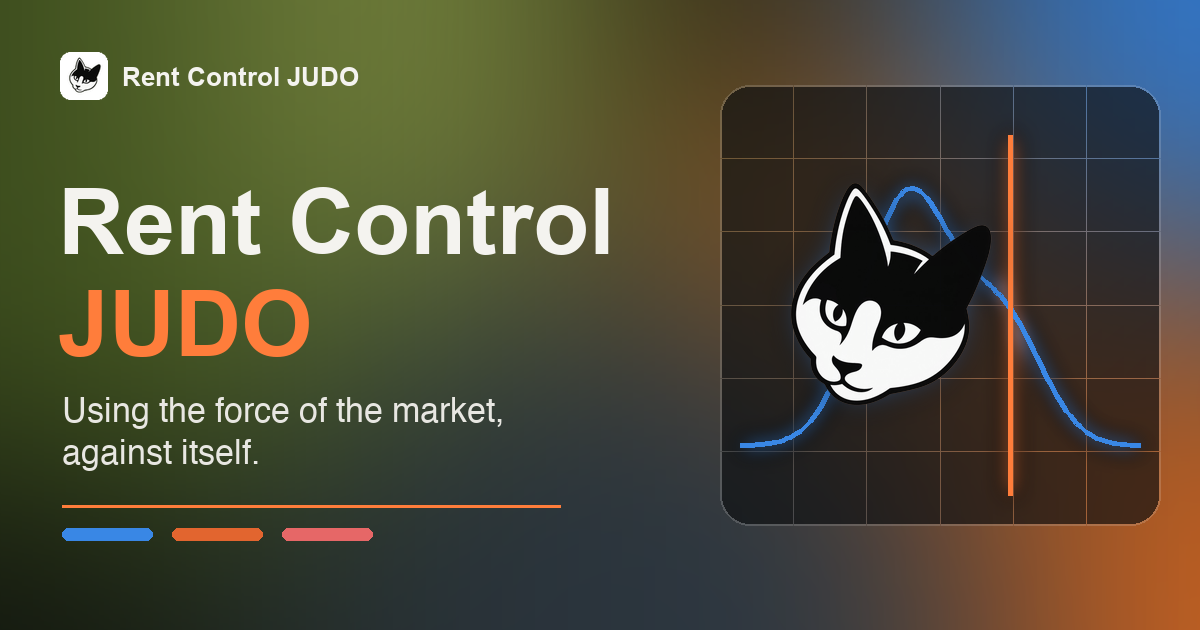
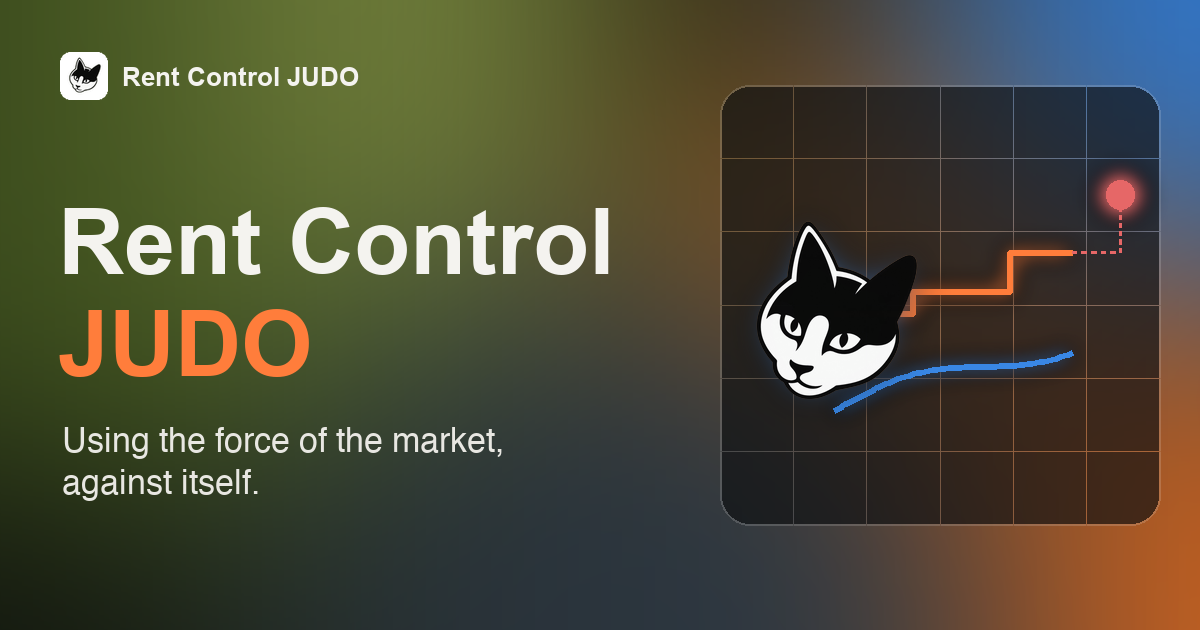
Hero: strip to one button; chart over time with the proposal as a red dot
- Hero keeps only the brand, title, tagline, one 'See the evidence' button
  and the chart (no nav links, repeated buttons, legend, stats or scroll cue)
- Hero chart now runs over time: market (smoothed), this rent above it, and a
  red dashed step up to the proposal dot at the top right
- Trend chart: proposal as a red dot; ONS label names its latest month
- Share card and README screenshots redrawn to match

diff --git a/public_page.py b/public_page.py
@@ -253,37 +253,24 @@ html{scroll-behavior:smooth}
 .jd-nav{display:flex;align-items:center;justify-content:space-between;gap:16px;padding:22px clamp(16px,3vw,40px)}
 .jd-brand{display:flex;align-items:center;gap:12px;font-weight:700;font-size:17px;letter-spacing:-.01em;color:#fff;text-decoration:none;white-space:nowrap}
 .jd-brand img{width:36px;height:36px;border-radius:10px;display:block}
-.jd-links{display:flex;gap:clamp(16px,2.6vw,40px);font-size:15px}
-.jd-links a{color:rgba(244,243,239,.82);text-decoration:none;font-weight:500}
-.jd-links a:hover{color:#fff}
 .jd-pill{display:inline-flex;align-items:center;gap:8px;background:#fff;color:#0b0b0b;text-decoration:none;font-weight:600;font-size:15px;padding:12px 22px;border-radius:999px;white-space:nowrap}
-.jd-pill:focus-visible,.jd-ghost:focus-visible,.jd-links a:focus-visible{outline:2px solid #fff;outline-offset:3px}
+.jd-pill:focus-visible,.jd-brand:focus-visible{outline:2px solid #fff;outline-offset:3px}
 .jd-body{flex:1;display:grid;grid-template-columns:minmax(0,1.15fr) minmax(0,.85fr);align-items:center;gap:clamp(24px,4vw,64px);
   padding:clamp(24px,6vh,72px) clamp(16px,3vw,40px) clamp(56px,10vh,110px);max-width:1360px;width:100%;margin:0 auto;box-sizing:border-box}
 .jd-title{font-weight:800;font-size:clamp(52px,8.4vw,128px);line-height:.92;letter-spacing:-.045em;margin:0;text-wrap:balance}
 .jd-title .o{color:#ff7d3b;display:block}
 .jd-tag{font-size:clamp(20px,2.2vw,30px);line-height:1.25;letter-spacing:-.02em;font-weight:500;color:rgba(244,243,239,.9);margin:22px 0 0;max-width:22ch}
-.jd-rule{height:2px;max-width:520px;margin:30px 0 14px;background:linear-gradient(90deg,#ff7d3b,rgba(255,125,59,.15))}
-.jd-keys{display:flex;flex-wrap:wrap;gap:10px 18px;font-size:13.5px;color:rgba(244,243,239,.78)}
-.jd-keys span{display:inline-flex;align-items:center;gap:8px}
-.jd-keys i{display:inline-block;width:34px;height:8px;border-radius:999px}
-.jd-ctas{display:flex;flex-wrap:wrap;gap:12px;margin-top:30px}
-.jd-ghost{display:inline-flex;align-items:center;gap:8px;color:#fff;text-decoration:none;font-weight:600;font-size:15px;padding:11px 20px;border-radius:999px;border:1px solid rgba(255,255,255,.4);background:rgba(255,255,255,.06);backdrop-filter:blur(6px)}
+.jd-ctas{display:flex;margin-top:40px}
 .jd-card{position:relative;aspect-ratio:1/1;width:100%;max-width:520px;justify-self:end;border-radius:28px;
   background:rgba(12,14,16,.58);border:1px solid rgba(255,255,255,.12);backdrop-filter:blur(14px);
   box-shadow:0 30px 80px rgba(0,0,0,.45);overflow:hidden}
 .jd-card svg{position:absolute;inset:0;width:100%;height:100%}
-.jd-cat{position:absolute;left:42%;top:48%;width:56%;transform:translate(-50%,-50%);filter:drop-shadow(0 0 28px rgba(57,135,229,.45)) drop-shadow(0 12px 30px rgba(0,0,0,.5));
+.jd-cat{position:absolute;left:25%;top:52%;width:44%;transform:translate(-50%,-50%);filter:drop-shadow(0 0 28px rgba(57,135,229,.45)) drop-shadow(0 12px 30px rgba(0,0,0,.5));
   animation:jdFloat 7s ease-in-out infinite}
 @keyframes jdFloat{0%,100%{transform:translate(-50%,-50%)}50%{transform:translate(-50%,-53%)}}
-.jd-stat{position:absolute;left:18px;bottom:16px;right:18px;display:flex;justify-content:space-between;align-items:flex-end;gap:10px;font-size:12.5px;color:rgba(244,243,239,.75)}
-.jd-stat b{display:block;font-size:26px;letter-spacing:-.03em;color:#fff;line-height:1}
-.jd-down{position:absolute;left:50%;bottom:22px;transform:translateX(-50%);display:flex;flex-direction:column;align-items:center;gap:6px;color:rgba(244,243,239,.75);text-decoration:none;font-size:12px;letter-spacing:.12em;text-transform:uppercase}
-.jd-down svg{width:22px;height:22px;animation:jdBob 2.2s ease-in-out infinite}
-@keyframes jdBob{0%,100%{transform:translateY(0)}50%{transform:translateY(5px)}}
-@media (max-width:900px){.jd-body{grid-template-columns:1fr}.jd-card{justify-self:start;max-width:420px}.jd-links{display:none}}
-@media (max-width:520px){.jd-pill{padding:10px 16px;font-size:14px}.jd-nav > .jd-pill{display:none}.jd-card{max-width:none}.jd-down{display:none}}
-@media (prefers-reduced-motion: reduce){.jd-bg,.jd-cat,.jd-down svg{animation:none}}
+@media (max-width:900px){.jd-body{grid-template-columns:1fr}.jd-card{justify-self:start;max-width:420px}}
+@media (max-width:520px){.jd-card{max-width:none}}
+@media (prefers-reduced-motion: reduce){.jd-bg,.jd-cat{animation:none}}
 .dash-head{display:flex;align-items:center;justify-content:space-between;gap:12px;margin:8px 0 18px;scroll-margin-top:16px}
 .dash-head h2{font-size:clamp(22px,2.6vw,30px);letter-spacing:-.035em}
 .reveal{opacity:0;transform:translateY(18px);transition:opacity .7s ease,transform .7s cubic-bezier(.2,.7,.2,1)}
@@ -297,25 +284,18 @@ html{scroll-behavior:smooth}
   <div class="jd-bg" aria-hidden="true"></div><div class="jd-mesh" aria-hidden="true"></div><div class="jd-shade" aria-hidden="true"></div>
   <nav class="jd-nav">
     <a class="jd-brand" href="#top" id="top"><img src="logo-64.png" width="36" height="36" alt="">Rent Control JUDO</a>
-    <div class="jd-links"><a href="#evidence">The evidence</a><a href="#h-trend">Trend</a><a href="#h-how">How it works</a><a id="jd-code" href="#">Code</a></div>
-    <a class="jd-pill" href="#evidence">See the evidence</a>
   </nav>
   <div class="jd-body">
     <div>
       <h1 class="jd-title">Rent Control <span class="o">JUDO</span></h1>
       <p class="jd-tag">Using the force of the market, against itself.</p>
-      <div class="jd-rule" aria-hidden="true"></div>
-      <div class="jd-keys"><span><i style="background:#3987e5"></i>Market</span><span><i style="background:#e2652f"></i>This rent</span><span><i style="background:#e66767"></i>Proposal</span></div>
-      <div class="jd-ctas"><a class="jd-pill" href="#evidence">See the evidence ↓</a><a class="jd-ghost" id="jd-code2" href="#">View the code</a></div>
+      <div class="jd-ctas"><a class="jd-pill" href="#evidence">See the evidence ↓</a></div>
     </div>
     <div class="jd-card" aria-hidden="true">
-      <svg id="jd-chart" viewBox="0 0 400 400" preserveAspectRatio="none"></svg>
+      <svg id="jd-chart" viewBox="0 0 400 400"></svg>
       <img class="jd-cat" src="logo-512.png" alt="">
-      <div class="jd-stat"><div><b id="jd-gap"></b>a month above the local median</div><div style="text-align:right"><b id="jd-n"></b>agreed lets compared</div></div>
     </div>
   </div>
-  <a class="jd-down" href="#evidence" aria-label="Scroll to the evidence"><span>Scroll</span>
-    <svg viewBox="0 0 24 24" fill="none" stroke="currentColor" stroke-width="2" stroke-linecap="round" stroke-linejoin="round"><path d="M6 9l6 6 6-6"/></svg></a>
 </header>
 <main>
   <div class="dash-head" id="evidence">
@@ -550,7 +530,7 @@ function trend() {
   const box = $("#c-trend"); box.innerHTML = "";
   legend("#lg-trend", [["Agreed rents: median", css("--mkt")], ["middle half", css("--mkt-wash"), "b"], ["Borough average (ONS)", css("--ok")], ["This tenancy", css("--you")]]);
   const T = D.trend; if (!T.length) return; const O = D.ons.filter(o => o.m >= T[0].m);
-  const W = Math.max(300, box.clientWidth), H = 300, m = {l: 52, r: W < 520 ? 12 : 96, t: 14, b: 28};
+  const W = Math.max(300, box.clientWidth), H = 300, m = {l: 52, r: W < 520 ? 12 : 112, t: 14, b: 28};
   const t0 = new Date(T[0].m + "-01"), t1 = new Date();
   const vals = T.flatMap(t => [t.q1, t.q3]).concat(O.map(o => o.v), D.history.map(h => h.rent), D.proposed || []);
   const lo = Math.floor((Math.min(...vals) - 50) / 250) * 250, hi = Math.ceil((Math.max(...vals) + 50) / 250) * 250;
@@ -568,11 +548,12 @@ function trend() {
   let p = ""; D.history.forEach((h, i) => { const nx = i + 1 < D.history.length ? D.history[i + 1].from + "-01" : t1; const xs = Math.max(m.l, x(h.from + "-01"));
     p += (i ? "L" : "M") + xs + "," + y(h.rent) + "L" + x(nx) + "," + y(h.rent); });
   el("path", {d: p, fill: "none", stroke: "var(--you)", "stroke-width": 3, "stroke-linejoin": "round"}, svg);
-  if (D.proposed) { const xs = x(t1); el("rect", {x: xs - 2, y: y(D.proposed[1]), width: 6, height: y(D.proposed[0]) - y(D.proposed[1]), rx: 3, fill: "var(--you)", opacity: .35}, svg); }
+  if (D.proposed) el("circle", {cx: x(t1), cy: y((D.proposed[0] + D.proposed[1]) / 2), r: 6, fill: "var(--prop)", stroke: "var(--surface)", "stroke-width": 2}, svg);
   if (W >= 520) { const last = T[T.length - 1];
     tx(svg, W - m.r + 8, y(D.rent) + 4, `This ${gbp(D.rent)}`, "strong");
     tx(svg, W - m.r + 8, y(last.med) + 4, `Median ${gbp(last.med)}`, "lbl");
-    if (O.length) tx(svg, W - m.r + 8, y(O[O.length - 1].v) + (Math.abs(y(O[O.length - 1].v) - y(last.med)) < 14 ? 16 : 4), `ONS ${gbp(O[O.length - 1].v)}`, "lbl"); }
+    if (O.length) tx(svg, W - m.r + 8, y(O[O.length - 1].v) + (Math.abs(y(O[O.length - 1].v) - y(last.med)) < 14 ? 16 : 4), `ONS ${gbp(O[O.length - 1].v)} (${new Date(O[O.length - 1].m + "-01").toLocaleDateString("en-GB", {month: "short"})})`, "lbl");
+    if (D.proposed) tx(svg, W - m.r + 14, y((D.proposed[0] + D.proposed[1]) / 2) + 4, "Proposal", "lbl"); }
   const cross = el("line", {y1: m.t, y2: H - m.b, stroke: "var(--axis)", opacity: 0}, svg);
   const ov = el("rect", {x: m.l, y: m.t, width: W - m.l - m.r, height: H - m.t - m.b, class: "hit"}, svg);
   ov.addEventListener("pointermove", e => { const pt = svg.createSVGPoint(); pt.x = e.clientX; pt.y = e.clientY; const sx = pt.matrixTransform(svg.getScreenCTM().inverse()).x;
@@ -606,24 +587,42 @@ function byKm() {
 }
 
 function judo() {
-  if (D.repo) { $("#jd-code").href = D.repo; $("#jd-code2").href = D.repo; } else { $("#jd-code").remove(); $("#jd-code2").remove(); }
-  $("#jd-gap").textContent = D.gap == null ? "–" : gbp(Math.abs(D.gap));
-  $("#jd-n").textContent = P.length;
-  // the card's chart: grid, the real distribution as a glowing blue curve, this rent as an orange line
+  // The card's chart, over time: market (blue) and this rent (orange), the gap between them shaded,
+  // and a red dashed step up to the expected proposal: a red dot at the top right.
   const svg = $("#jd-chart"); svg.innerHTML = "";
-  const S = 400, pad = 24, lo = Math.min(...P, RENT) - 150, hi = Math.max(...P, RENT) + 150;
-  const x = v => pad + (v - lo) / (hi - lo) * (S - 2 * pad);
-  const K = kde(P, lo, hi, 80), ym = Math.max(...K.map(k => k[1])), y = d => S * 0.82 - d / ym * S * 0.6;
+  const S = 400, T = D.trend; if (!T.length || !D.history.length) return;
+  const sm = T.map((_, i) => { let a = 0, b = 0; T.forEach((v, j) => { const k = Math.exp(-(((i - j) / 4) ** 2) / 2) * v.n; a += k * v.med; b += k; }); return a / b; });   // Gaussian smooth, weighted by lets
+  const pm = D.proposed ? (D.proposed[0] + D.proposed[1]) / 2 : null;
+  const t0 = +new Date(T[0].m + "-15"), t1 = Date.now();
+  const xL = S * .26, xR = S * .80, xP = S * .91;
+  const x = t => xL + (t - t0) / (t1 - t0) * (xR - xL);
+  const vals = sm.concat(D.history.map(h => h.rent), pm ? [pm] : []);
+  const lo = Math.min(...vals) - 40, hi = Math.max(...vals) + 40, y = v => S * .82 - (v - lo) / (hi - lo) * S * .62;
+  const rentAt = t => { let r = D.history[0].rent; D.history.forEach(h => { if (+new Date(h.from + "-01") <= t) r = h.rent; }); return r; };
   const defs = el("defs", {}, svg), f = el("filter", {id: "jdglow", filterUnits: "userSpaceOnUse", x: 0, y: 0, width: S, height: S}, defs);
   el("feGaussianBlur", {stdDeviation: 6, result: "b"}, f); const mg = el("feMerge", {}, f); el("feMergeNode", {in: "b"}, mg); el("feMergeNode", {in: "SourceGraphic"}, mg);
+  const fade = (id, c, a1) => { const g = el("linearGradient", {id, gradientUnits: "userSpaceOnUse", x1: S * .2, x2: S * .5, y1: 0, y2: 0}, defs);
+    el("stop", {offset: 0, "stop-color": c, "stop-opacity": 0}, g); el("stop", {offset: 1, "stop-color": c, "stop-opacity": a1}, g); };
+  fade("jdB", "#3987e5", 1); fade("jdO", "#ff7d3b", 1); fade("jdW", "#ff7d3b", .16);
   for (let i = 1; i < 6; i++) { el("line", {x1: S * i / 6, x2: S * i / 6, y1: 0, y2: S, stroke: "rgba(255,255,255,.07)"}, svg);
     el("line", {x1: 0, x2: S, y1: S * i / 6, y2: S * i / 6, stroke: "rgba(255,255,255,.07)"}, svg); }
-  el("path", {d: K.map((k, i) => (i ? "L" : "M") + x(k[0]) + "," + y(k[1])).join(""), fill: "none", stroke: "#3987e5", "stroke-width": 4, filter: "url(#jdglow)", "stroke-linecap": "round"}, svg);
-  el("line", {x1: x(RENT), x2: x(RENT), y1: S * .12, y2: S * .9, stroke: "#ff7d3b", "stroke-width": 4, filter: "url(#jdglow)"}, svg);
-  if (D.proposed) { const pm = (D.proposed[0] + D.proposed[1]) / 2; el("line", {x1: x(pm), x2: x(pm), y1: S * .2, y2: S * .9, stroke: "#e66767", "stroke-width": 2, "stroke-dasharray": "4 6", opacity: .8}, svg); }
-  // place the cat to the left of this rent's line, so the line stays visible beside it
-  const rx = x(RENT) / S * 100, w = Math.max(40, Math.min(56, rx * 0.9));
-  const cat = $(".jd-cat"); cat.style.width = w + "%"; cat.style.left = Math.max(w / 2 + 2, rx - w / 2 - 4) + "%";
+  const ts = T.map(t => +new Date(t.m + "-15"));
+  const mp = ts.map((t, i) => [x(t), y(sm[i])]);
+  const d = mp.map((p, i) => (i ? "L" : "M") + p).join("");
+  let r = `M${x(t0)},${y(rentAt(t0))}`;
+  D.history.forEach(h => { const t = +new Date(h.from + "-01"); if (t > t0 && t < t1) r += `L${x(t)},${y(rentAt(t - 1))}L${x(t)},${y(h.rent)}`; });
+  r += `L${xR},${y(rentAt(t1))}`;
+  el("path", {d: ts.map((t, i) => (i ? "L" : "M") + x(t) + "," + y(rentAt(t))).join("") + ts.map((t, i) => "L" + x(t) + "," + y(sm[i])).reverse().join("") + "Z", fill: "url(#jdW)"}, svg);
+  el("path", {d, fill: "none", stroke: "url(#jdB)", "stroke-width": 5, filter: "url(#jdglow)", "stroke-linecap": "round", "stroke-linejoin": "round"}, svg);
+  el("path", {d: r, fill: "none", stroke: "url(#jdO)", "stroke-width": 5, filter: "url(#jdglow)", "stroke-linejoin": "round"}, svg);
+  const lab = (x0, y0, t, c) => { const e = tx(svg, x0, y0, t, null, "end"); e.style.fill = c; e.setAttribute("font-size", 17); e.setAttribute("font-weight", 600); };
+  if (pm) {
+    el("path", {d: `M${xR},${y(rentAt(t1))}L${xP},${y(rentAt(t1))}L${xP},${y(pm)}`, fill: "none", stroke: "#e66767", "stroke-width": 2, "stroke-dasharray": "3 5"}, svg);
+    el("circle", {cx: xP, cy: y(pm), r: 10, fill: "#e66767", filter: "url(#jdglow)"}, svg);
+    lab(xP + 10, y(pm) - 22, "Proposal", "#f09090");
+  }
+  lab(xR, y(rentAt(t1)) - 14, "This rent", "#ffa070");
+  lab(xR, y(sm[sm.length - 1]) + 30, "Market", "#7fb2f0");
 }
 
 function reveals() {

diff --git a/README.md b/README.md
@@ -11,7 +11,7 @@
 <p align="center"><a href="https://rent-evidence-demo.pages.dev"><b>Live demo →</b></a></p>
 
 <p align="center">
-  <a href="https://rent-evidence-demo.pages.dev"><img src="docs/screenshots/hero-dark.jpg" width="820" alt="Rent Control JUDO: the cat logo over a glowing chart of agreed rents, with the example rent marked"></a>
+  <a href="https://rent-evidence-demo.pages.dev"><img src="docs/screenshots/hero-dark.jpg" width="820" alt="Rent Control JUDO: the cat logo beside a glowing chart over time, the example rent above the market and the expected proposal as a red dot"></a>
 </p>
 
 Since 1 May 2026 (the Renters' Rights Act 2025), a private landlord in England can only raise the rent with a
@@ -27,8 +27,8 @@ copy so others can see how it works.
 
 ## The public dashboard
 
-A full-screen opening section (the cat over the live rent curve, with the example rent and the expected proposal
-marked) scrolls smoothly down to the evidence: one number up front (how far the rent sits above the local median), three headline figures (live listings,
+A full-screen opening section (the cat beside the live market and rent lines over time, the expected proposal a red
+dot at the top right) scrolls smoothly down to the evidence: one number up front (how far the rent sits above the local median), three headline figures (live listings,
 agreed lets analysed, recent comparables), and four charts: how many recent lets were cheaper, a grid showing
 the rent above the median at every distance and period (the group behind the headline outlined), agreed rents
 over time against the official ONS average, and every let by distance. Hover anything for the figures behind it.
